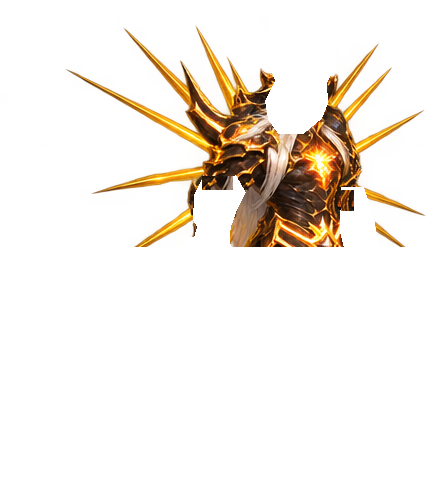
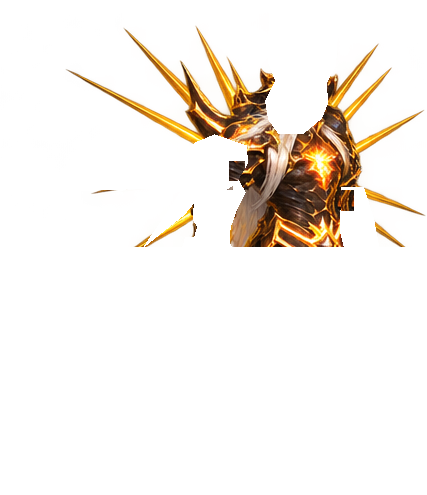
Bind visible Girtas pauldron to shared shoulder motion

Changed region(s): [[0.2436, 0.2727, 0.5785, 0.4545], [0.3349, 0.4545, 0.3958, 0.5152]]

diff --git a/tools/animation/build_girtas_shared_skin.py b/tools/animation/build_girtas_shared_skin.py
@@ -53,6 +53,17 @@ underlays=[([202,176,233,190],[240,176,271,190]),([341,190,354,211],[327,190,340
 for dest,src in underlays:
  patch=im.crop(src);body.alpha_composite(patch,(dest[0],dest[1]))
 entry['authored_joint_caps']=underlays
+# Authored near pauldron grouping: visible shoulder armor and its lateral spikes.
+# Cut from the already separated body, so no arm or weapon pixels are duplicated.
+shoulder_poly=[(61,169),(180,153),(195,142),(214,134),(246,145),(247,163),(236,182),(221,193),(202,192),(184,214),(143,247),(164,216),(181,190),(85,232),(155,188),(65,191)]
+shoulder_mask=mask(shoulder_poly)
+shoulder=body.copy();shoulder.putalpha(ImageChops.multiply(body.getchannel('A'),shoulder_mask))
+shoulder_path=folder/'shoulder_armor.png';write_image(shoulder,shoulder_path)
+entry['parts']['shoulder_armor']={'texture':'res://'+str(shoulder_path.relative_to(ROOT)),'pivot':[226,178],'polygon':shoulder_poly,'derived_from':'separated body before torso partition','sha256':hashlib.sha256(shoulder_path.read_bytes()).hexdigest()}
+body.putalpha(ImageChops.subtract(body.getchannel('A'),shoulder_mask))
+# Small explicitly authored joint backing behind the movable pauldron.
+backing=im.crop((290,190,306,210));backing.putalpha(ImageChops.multiply(backing.getchannel('A'),shoulder_mask.crop((229,161,245,181))));body.alpha_composite(backing,(229,161))
+entry['shoulder_joint_backing']={'source_rect':[290,190,306,210],'destination':[229,161],'authorship':'copied visible armor backing, not recovered hidden anatomy'}
 for key,pivot,rect in [('torso',[304,235],(0,0,427,246)),('pelvis',[303,277],(0,239,427,495))]:
  m=Image.new('L',im.size);ImageDraw.Draw(m).rectangle(rect,fill=255)
  part=body.copy();part.putalpha(ImageChops.multiply(body.getchannel('A'),m));path=folder/(key+'.png');write_image(part,path)

diff --git a/scripts/animation/skin_pilot/README.md b/scripts/animation/skin_pilot/README.md
@@ -128,3 +128,12 @@ blend out into idle and the unchanged attack poses. The supplied male-elf clip
 is shown at normal playback speed beside the result, with differing direction
 and appearance labeled. Rigid armor/cape layers still limit the torso's depth
 and perspective change compared with redrawn animation.
+
+The visible near pauldron and its lateral armor spikes are now a separate skin
+part. They were previously baked into the chest, hiding the upper arm's motion
+behind a fixed shoulder silhouette. The pauldron follows the shared upper-arm
+response during RUN, with a small explicitly recorded chest-armor backing in the
+exposed joint. No source sheet is edited. The new locomotion-weight channel blends
+out before established attack poses; it has no clock or hit-event authority.
+This addresses one attachment error, not the remaining rigid upper-back/cape
+perspective limitations. It must not be treated as original-equivalence approval.
